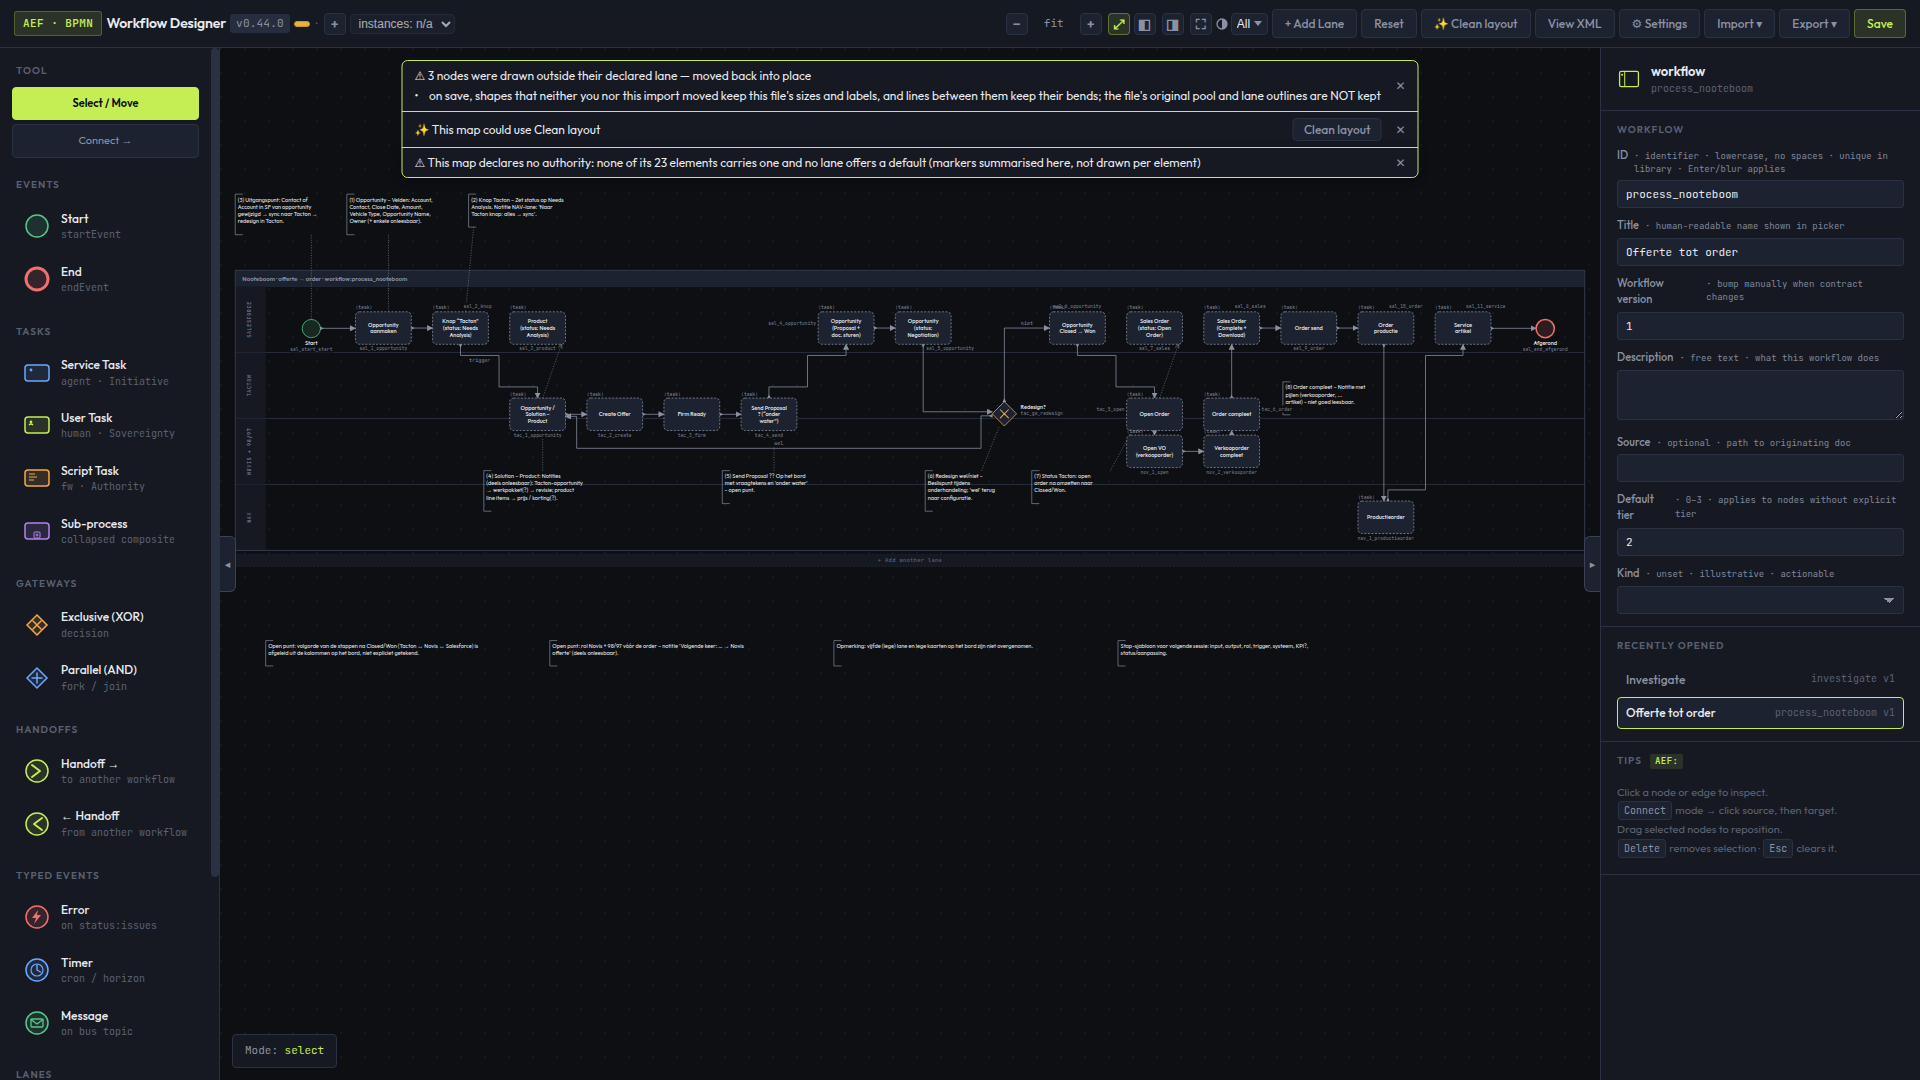
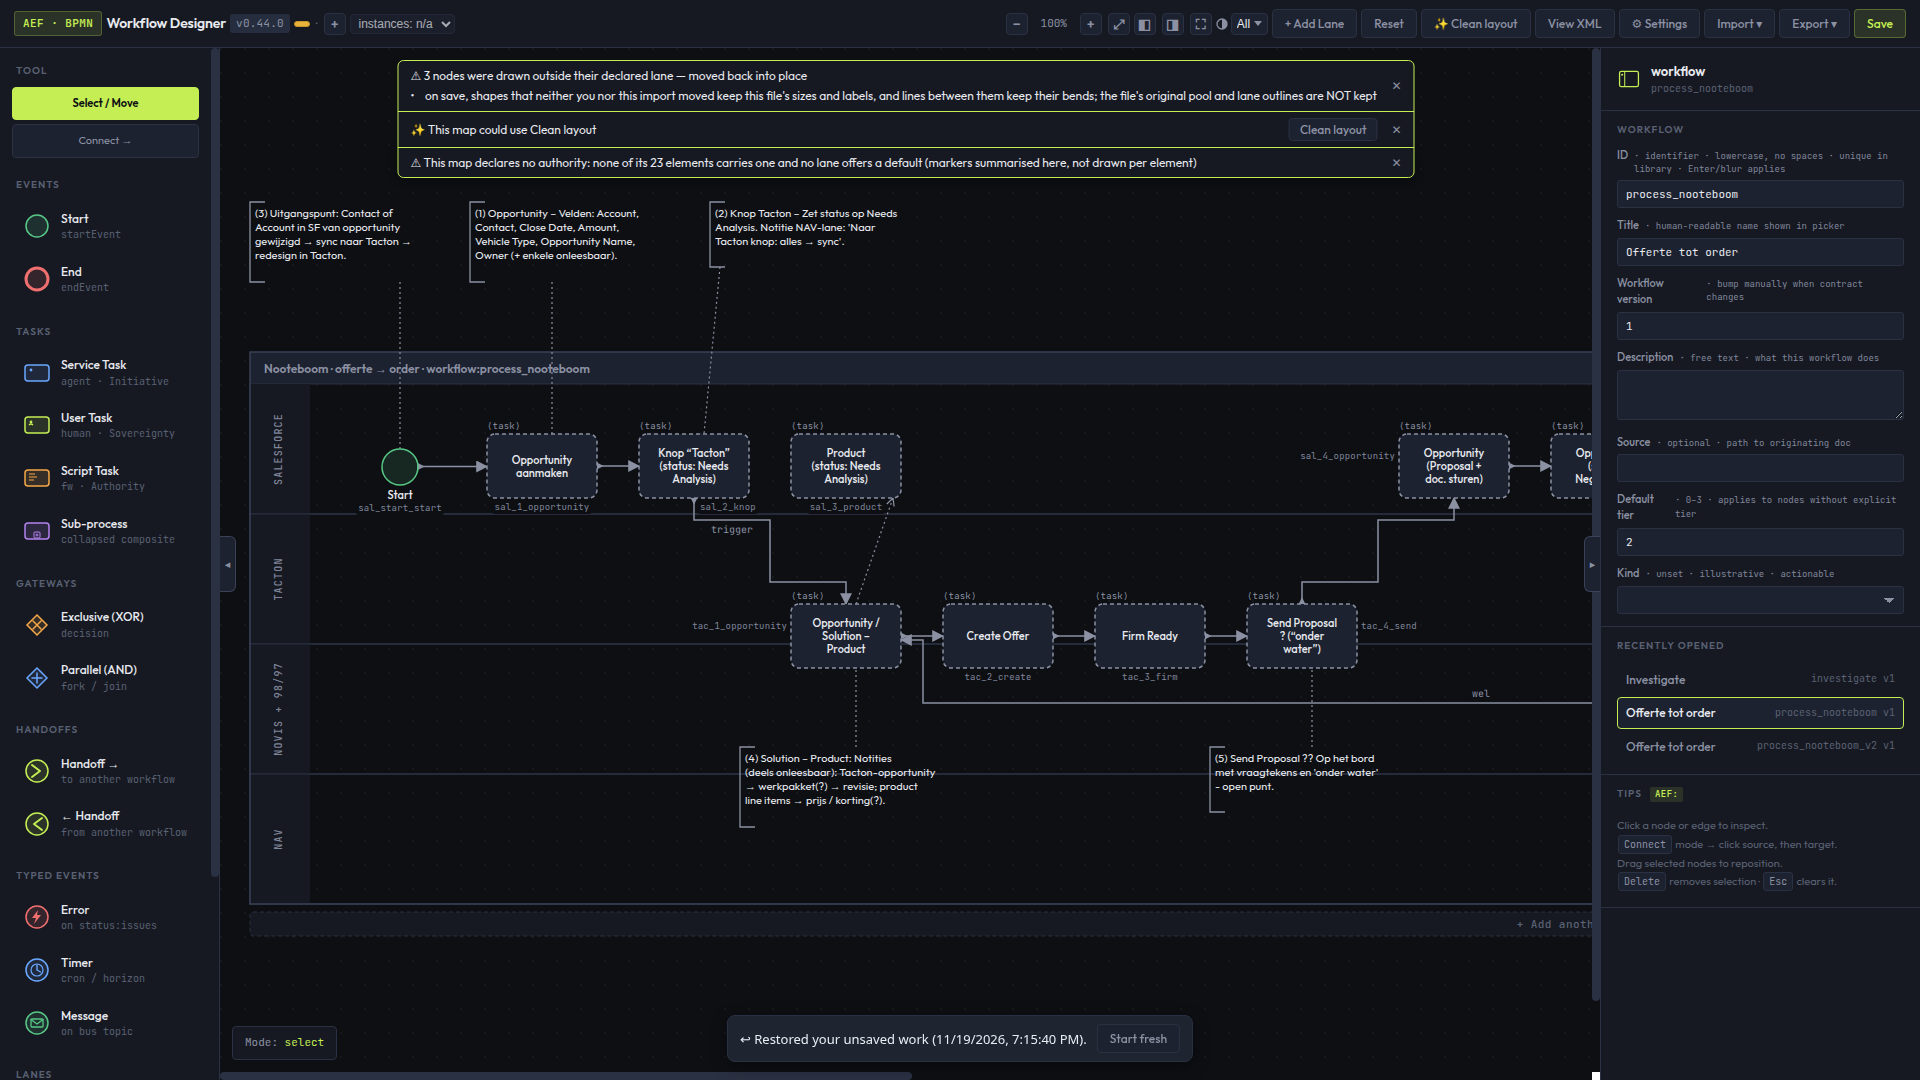
T-1447: review round 1 (amber) addressed — a note's line whose end touches another step is re-attached to a clear side of its own step (note 7); notes and note lines are obstacles for id captions and flow labels (note 8's bracket and line, note 5 vs 'wel'); close-up tiles at 100% for 1024 and 1440; 

diff --git a/src/aef-workflow-designer.html b/src/aef-workflow-designer.html
@@ -5150,7 +5150,8 @@ function clearLabelsOfFlows() {
     const pl = polylineFromPath(p.getAttribute('d'));
     for (let i = 0; i < pl.length - 1; i++) segs.push([pl[i], pl[i + 1]]);
   }
-  if (!segs.length) return;
+  const notesOb = noteObstacles();   // T-1447
+  if (!segs.length && !notesOb.segs.length && !notesOb.boxes.length) return;
   // T-1277: a flow is not only its line. Its arrowheads (#arrow at the end, #arrow-source at the start, sized in
   // stroke widths) are 12 and 7.5 units wide, so a caption 6 units beside a vertical flow sat on the head of the flow
   // that ends on its node (agt_3_start, agt_6_completion on aef-task-lifecycle). Each head counts as an obstacle by its
@@ -5238,6 +5239,9 @@ function clearLabelsOfFlows() {
         for (const h of heads) if (inter(r, h)) { c += 10; hard++; }
         for (const o of others) if (inter(r, o)) { c += 10; hard++; }
         for (const s of shapes) if (inter(r, s)) c += 30;
+        // T-1447: a note's line, text or bracket is crossed like a flow or another label
+        for (const [a, b] of notesOb.segs) if (segHits(a, b, r)) { c += 10; hard++; }
+        for (const o of notesOb.boxes) if (inter(r, o)) { c += 10; hard++; }
         if (hasPool) {
           if (r.x1 < PX || r.x2 > PX + pw || r.y1 < bandTop || r.y2 > POOL_Y + ph) c += 1;
           if (r.x1 < PX + LANE_HEADER) c += 2;
@@ -5333,6 +5337,9 @@ function clearFlowLabels() {
   const allSegs = [];
   for (const [id, list] of segsOf) for (const s of list) allSegs.push([id, s[0], s[1]]);
   if (!allSegs.length) return;
+  // T-1447: a note's line is crossed like another flow, its text and bracket like a step's caption
+  const notesOb = noteObstacles();
+  notesOb.segs.forEach((s, i) => allSegs.push([`note-line:${i}`, s[0], s[1]]));
   const segHits = (a, b, r) => {
     let t0 = 0, t1 = 1;
     const dx = b.x - a.x, dy = b.y - a.y;
@@ -5351,7 +5358,7 @@ function clearFlowLabels() {
   const shapes = state.nodes.map(n => { const d = dims(n); return { x1: n.x - 2, y1: n.y - 2, x2: n.x + d.w + 2, y2: n.y + d.h + 2 }; });
   const nodeTextEls = Array.from(gNodes.querySelectorAll('text.node-label, text.node-id-badge, text.node-io-badge'))
     .filter(t => !t.closest('#g-sticky-lanes'));
-  const nodeBoxes = nodeTextEls.map(boxOf).filter(Boolean);
+  const nodeBoxes = nodeTextEls.map(boxOf).filter(Boolean).concat(notesOb.boxes);
   // Names and id captions as drawn (no pad), with their font size, for nearness.
   const nearRows = nodeTextEls.filter(t => !t.classList.contains('node-io-badge')).map(t => {
     const b = t.getBBox(); return b.width ? { x1: b.x, y1: b.y, x2: b.x + b.width, y2: b.y + b.height, em: parseFloat(getComputedStyle(t).fontSize) || 11 } : null;
@@ -15944,6 +15951,31 @@ function notesLayout(s) {
     return null;   // a flow, or something not on this map: only the file's own waypoints can draw it
   };
   const near = (r, p) => p.x >= r.x - 3 && p.x <= r.x + r.w + 3 && p.y >= r.y - 3 && p.y <= r.y + r.h + 3;
+  const stepRects = s.nodes.map(n => { const d = dims(n); return { uid: n.uid, x: n.x, y: n.y, w: d.w, h: d.h }; });
+  // An end that touches ANOTHER step reads as attached to that one (Greenfield's note 7: its line ends on Open Order's
+  // corner, against the step drawn just below it, so it seems to point at Open VO).
+  const ambiguousAt = (p, end) => stepRects.some(r => r.uid !== (end && end.node) && p.x >= r.x - 8 && p.x <= r.x + r.w + 8 && p.y >= r.y - 8 && p.y <= r.y + r.h + 8);
+  const segHitsRect = (a, b, r) => {
+    let t0 = 0, t1 = 1; const dx = b.x - a.x, dy = b.y - a.y;
+    const P = [-dx, dx, -dy, dy], Q = [a.x - r.x, r.x + r.w - a.x, a.y - r.y, r.y + r.h - a.y];
+    for (let i = 0; i < 4; i++) {
+      if (P[i] === 0) { if (Q[i] < 0) return false; continue; }
+      const t = Q[i] / P[i];
+      if (P[i] < 0) { if (t > t1) return false; if (t > t0) t0 = t; } else { if (t < t0) return false; if (t < t1) t1 = t; }
+    }
+    return t0 < t1;
+  };
+  // A straight line from A to the middle of one of Z's sides, the nearest whose line passes no other step; else null.
+  const sideRoute = (A, Z, zEnd, aEnd) => {
+    const mids = [{ x: Z.x, y: Z.y + Z.h / 2 }, { x: Z.x + Z.w, y: Z.y + Z.h / 2 }, { x: Z.x + Z.w / 2, y: Z.y }, { x: Z.x + Z.w / 2, y: Z.y + Z.h }];
+    const cands = mids.map(m => ({ m, a: rectExit(A, m.x, m.y) })).sort((p, q) => Math.hypot(p.m.x - p.a.x, p.m.y - p.a.y) - Math.hypot(q.m.x - q.a.x, q.m.y - q.a.y));
+    const skip = new Set([zEnd && zEnd.node, aEnd && aEnd.node]);
+    for (const c of cands) {
+      if (stepRects.some(r => !skip.has(r.uid) && segHitsRect(c.a, c.m, { x: r.x - 4, y: r.y - 4, w: r.w + 8, h: r.h + 8 }))) continue;
+      return [c.a, c.m];
+    }
+    return null;
+  };
   const drawn = [], undrawn = [];
   for (const l of links) {
     const A = rectOf(l.ends.sourceRef), Z = rectOf(l.ends.targetRef);
@@ -15951,9 +15983,30 @@ function notesLayout(s) {
     if (l.wps && (!A || near(A, l.wps[0])) && (!Z || near(Z, l.wps[l.wps.length - 1]))
         && (A || Z || (l.ends.sourceRef && l.ends.sourceRef.flow) || (l.ends.targetRef && l.ends.targetRef.flow))) pts = l.wps;
     else if (A && Z) pts = [rectExit(A, Z.x + Z.w / 2, Z.y + Z.h / 2), rectExit(Z, A.x + A.w / 2, A.y + A.h / 2)];
+    if (pts && A && Z) {
+      // T-1447 review (note 7): an end that reads as attached to the wrong step is re-attached to a clear side
+      if (l.ends.targetRef && l.ends.targetRef.node && ambiguousAt(pts[pts.length - 1], l.ends.targetRef)) pts = sideRoute(A, Z, l.ends.targetRef, l.ends.sourceRef) || pts;
+      else if (l.ends.sourceRef && l.ends.sourceRef.node && ambiguousAt(pts[0], l.ends.sourceRef)) { const r = sideRoute(Z, A, l.ends.sourceRef, l.ends.targetRef); if (r) pts = r.slice().reverse(); }
+    }
     (pts ? drawn : undrawn).push({ ...l, pts });
   }
   return { notes, links: drawn, undrawn };
+}
+// T-1447 review: the drawn notes as obstacles for the label passes (clearLabelsOfFlows, clearFlowLabels), so an id
+// caption or a flow label is not left on a note's text, bracket or line (Greenfield notes 5 and 8). Read off the DOM, as
+// those passes read the flows; empty when the map has no notes, so their placements are unchanged for every other map.
+function noteObstacles() {
+  const g = $('g-notes'), out = { segs: [], boxes: [] };
+  if (!g) return out;
+  for (const p of g.querySelectorAll('path[data-note-assoc]')) {
+    const pl = [...String(p.getAttribute('d')).matchAll(/(-?[\d.]+),(-?[\d.]+)/g)].map(m => ({ x: +m[1], y: +m[2] }));   // "x,y" pairs
+    for (let i = 0; i < pl.length - 1; i++) out.segs.push([pl[i], pl[i + 1]]);
+  }
+  for (const n of g.querySelectorAll('g[data-note]')) {
+    const b = n.getBBox();
+    if (b.width) out.boxes.push({ x1: b.x - 1, y1: b.y - 1, x2: b.x + b.width + 1, y2: b.y + b.height + 1 });
+  }
+  return out;
 }
 function renderNotes() {
   const g = $('g-notes'); if (!g) return;

diff --git a/.tasks/active/T-1447-show-imported-text-annotations-and-their.md b/.tasks/active/T-1447-show-imported-text-annotations-and-their.md
@@ -130,9 +130,15 @@ bounds; associations draw as dotted lines (an arrowhead when associationDirectio
 - [ ] The workshop map's notes and links read well and look like BPMN text annotations, at three widths.
   **Judged by:** the independent reviewer on the images (`fw reviewer judge T-1447 --criterion 1`), who may escalate.
   **Steps:**
-  1. `docs/reports/T-1447-shots/{1024,1440,1920}-greenfield.png`: every note readable, beside the step it belongs to,
-     its dotted line reaching that step; dotted task-to-task links visible with their arrowheads.
-  2. `docs/reports/T-1447-shots/greenfield-export.png`: the same on paper.
+  1. `docs/reports/T-1447-shots/{1024,1440,1920}-greenfield.png`: the opening view (fit) at each width.
+  2. `docs/reports/T-1447-shots/1024-notes-*.png` and `1440-notes-*.png`: the whole map at 100% in tiles, side panels
+     hidden, notices dismissed; `1920-closeup.png`. Every note readable, beside the step it belongs to, its dotted line
+     reaching that step; dotted task-to-task links visible with their arrowheads.
+  3. `docs/reports/T-1447-shots/greenfield-export.png`: the same on paper.
+  Round 1 (amber, V on 2026-11-19) asked for: readable close-ups at 1024/1440; note 7 visibly reaching Open Order; note
+  8's line visible and its bracket clear of `tac_6_order`; note 5's line clear of the flow label "wel". All four are
+  addressed (re-attach to a clear side when a line's end touches another step; notes are obstacles for id captions and
+  flow labels).
   **Expected:** the notes read as the map's content, nothing covers a step's name or a flow label it should not.
   **If not:** name the file and the note; the agent fixes and re-shoots.
 
